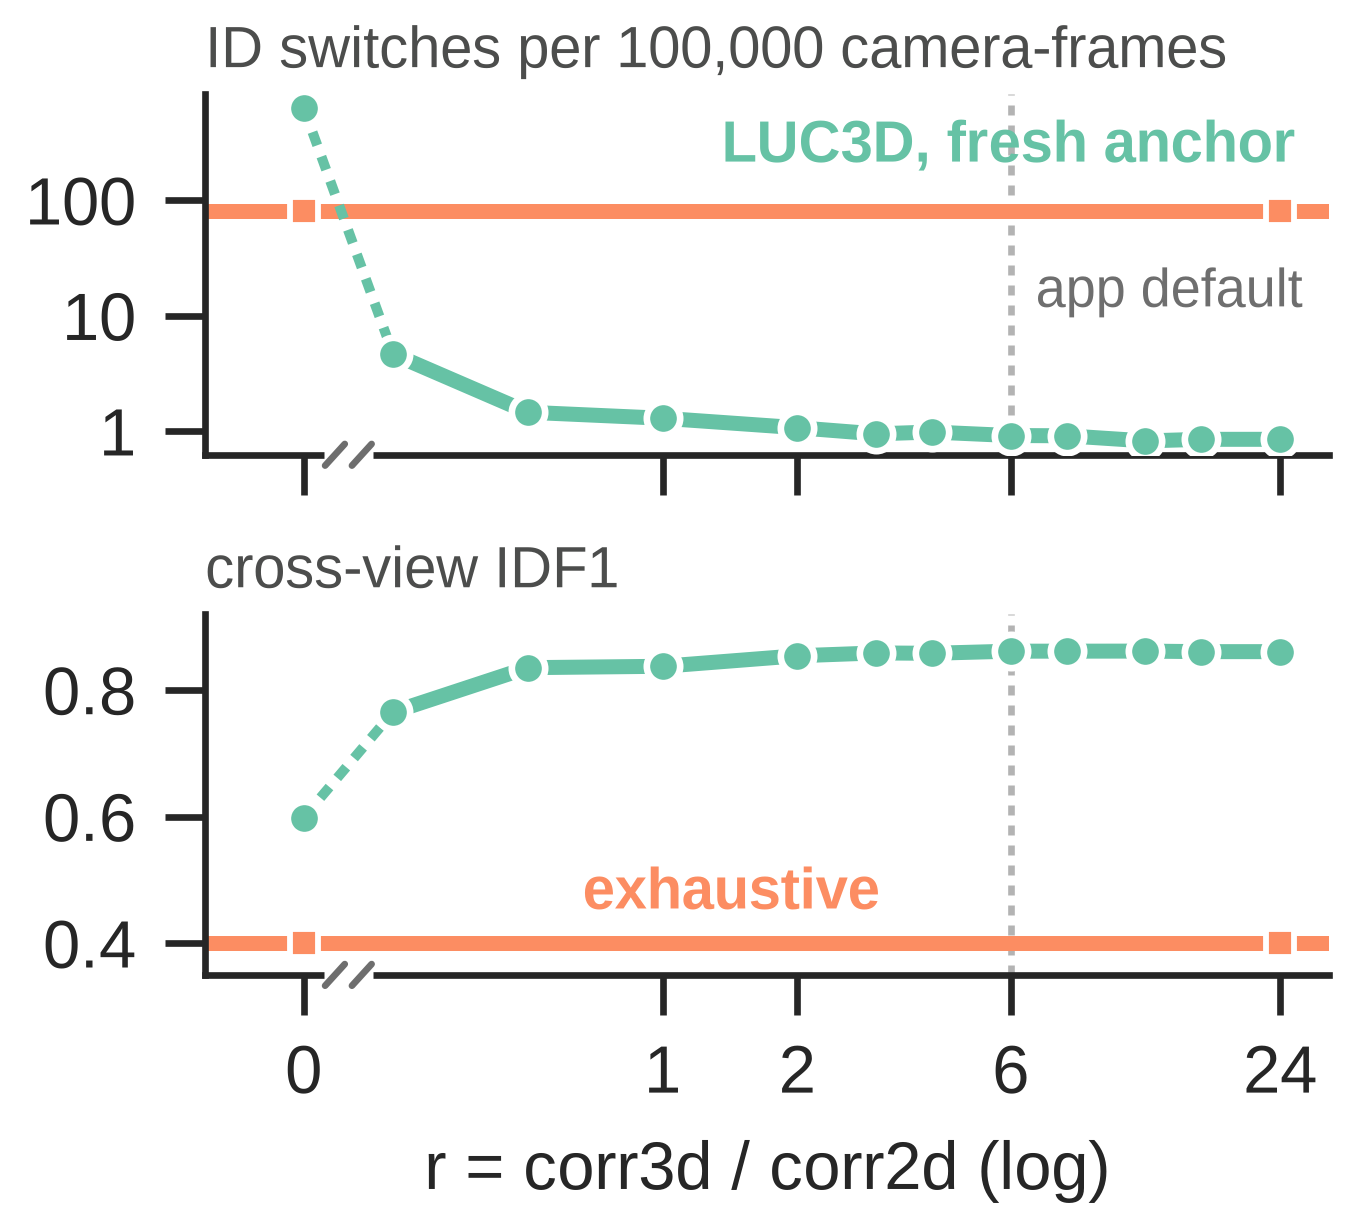
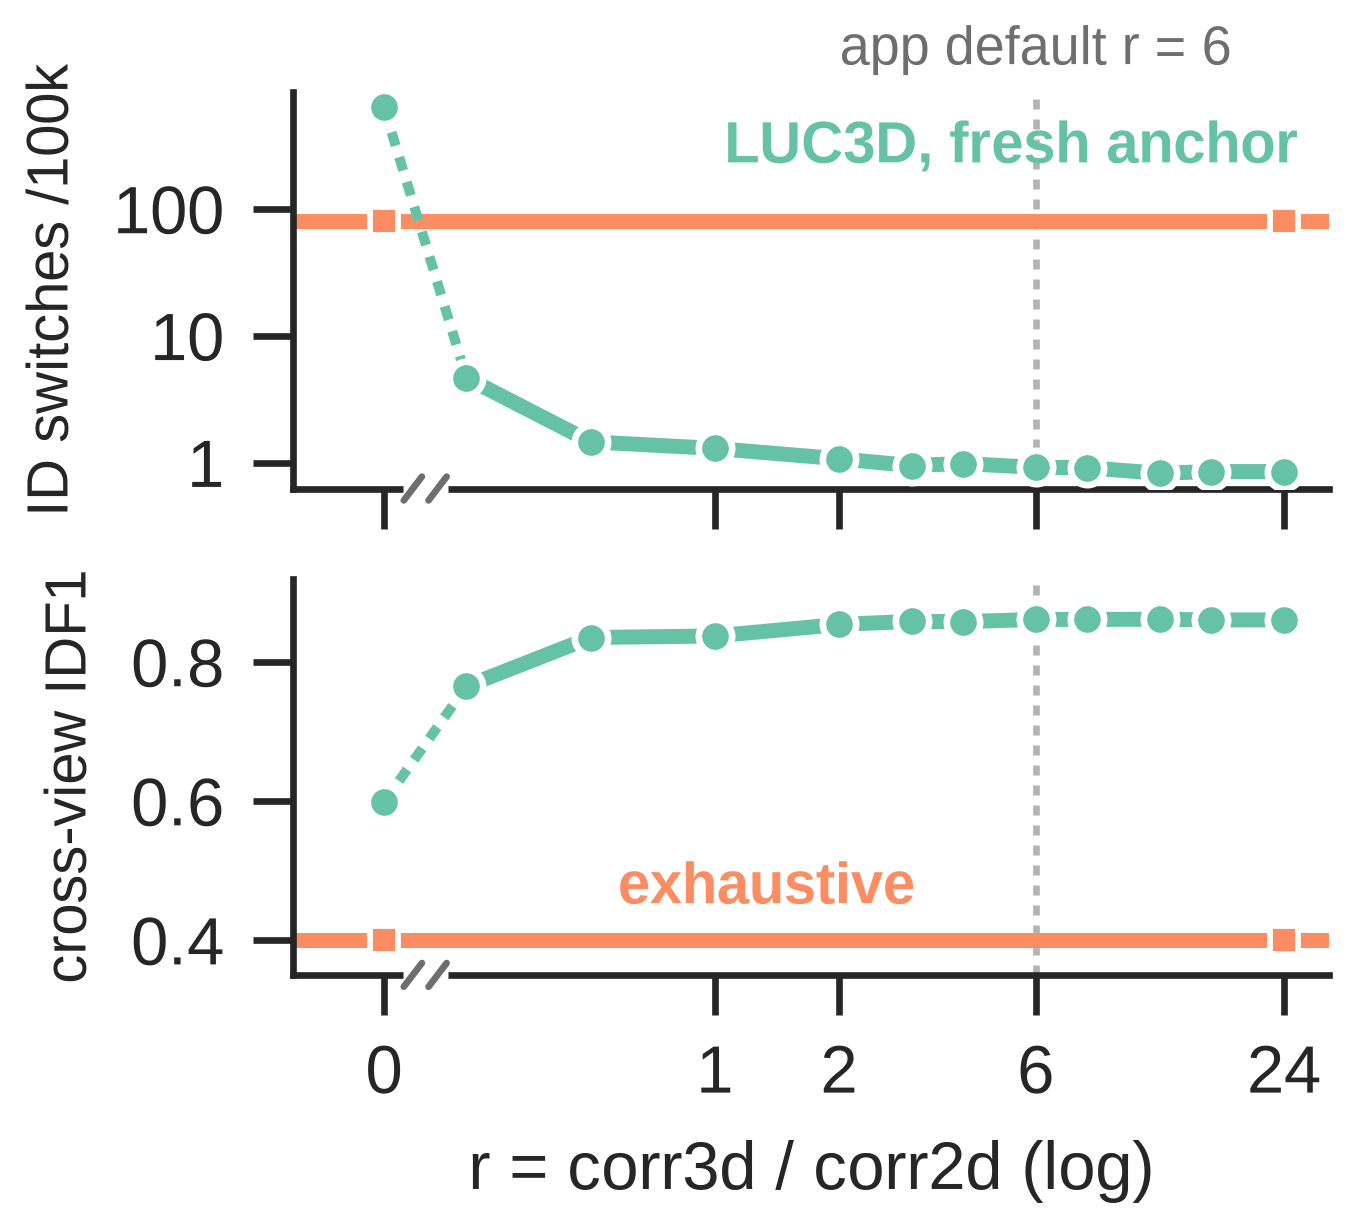
figs: 3d keeps rotated y labels, sized to fit their own axes
'ID switches /100k' (16.5 mm at 7 pt) and 'cross-view IDF1' (15 mm) each fit
inside a ~17 mm axis; the full denominator stays in the legend. The horizontal-
caption experiment is reverted on instruction.

diff --git a/figs/panels/fig3_05_sweep.py b/figs/panels/fig3_05_sweep.py
@@ -341,14 +341,14 @@ HOLLOW + DASHED = FRESH ANCHOR, FILLED + SOLID = SHIPPED. Briefly changed to
     ax_top.yaxis.set_major_formatter(FixedFormatter(["1", "10", "100"]))
     sweep_line(ax_top, "rate")
     exh_line(ax_top, exh_rate, -7)
-    # HORIZONTAL CAPTIONS, NOT ROTATED YLABELS (Eric, 2026-08-15: "the y labels are
-    # colliding"): rotated, either label sets ~26-30 mm of type against a ~17 mm
-    # axis, so each ran past its own subplot into the other's -- shortening could
-    # not fix what the geometry forbids. A one-line horizontal caption above each
-    # plot's top-left spends width, which these axes have.
-    ax_top.text(0.0, 1.04, "ID switches per 100,000 camera-frames",
-                transform=ax_top.transAxes, ha="left", va="bottom", color=INK,
-                fontsize=7)
+    # ROTATED Y LABELS, SIZED TO FIT (Eric, 2026-08-15: "you should label the y
+    # axis but just make the text fit" -- the horizontal-caption attempt is out).
+    # The constraint is real: a label may not overrun its own ~17 mm axis. At 7 pt,
+    # "ID switches /100k" is ~16.5 mm and "cross-view IDF1" ~15 mm set along the
+    # rule, so both fit INSIDE their own axis with a hair to spare; the full
+    # denominator ("per 100,000 camera-frames") stays in the footnote, where the
+    # rate basis is stated exactly.
+    ax_top.set_ylabel("ID switches /100k", fontsize=7)
     ax_top.tick_params(labelbottom=False)
     ax_top.set_xlabel("")
 
@@ -360,8 +360,7 @@ HOLLOW + DASHED = FRESH ANCHOR, FILLED + SOLID = SHIPPED. Briefly changed to
     ax_bot.set_ylim(0.35, 0.92)
     sweep_line(ax_bot, "idf1")
     exh_line(ax_bot, exh["idf1_cross_mean"], 5)
-    ax_bot.text(0.0, 1.04, "cross-view IDF1", transform=ax_bot.transAxes,
-                ha="left", va="bottom", color=INK, fontsize=7)
+    ax_bot.set_ylabel("cross-view IDF1", fontsize=7)
 
     footnote(ax_bot, "r = 0: no 3D term, left of the break\n"
              f"rate basis: {tcf:,} camera-frames (50 sessions x 5 cameras, "
@@ -370,13 +369,10 @@ HOLLOW + DASHED = FRESH ANCHOR, FILLED + SOLID = SHIPPED. Briefly changed to
 
     for axis in (ax_top, ax_bot):
         axis.axvline(SHIPPED_R, color=GREY, lw=0.8, ls=(0, (1.5, 1.5)), zorder=1)
-    # Inside the plot, right of its own rule, mid-height: the band above the axes
-    # now belongs to the caption (lint: 100% overlap when both sat there), and the
-    # region right of r = 6 between the two flat series is empty.
-    ax_top.annotate(f"app default", (SHIPPED_R, 0.45),
-                    xycoords=("data", "axes fraction"), xytext=(3, 0),
+    ax_top.annotate(f"app default r = {SHIPPED_R:g}", (SHIPPED_R, 1.0),
+                    xycoords=("data", "axes fraction"), xytext=(0, 2),
                     textcoords="offset points", color=MUTED, fontsize=6.5,
-                    ha="left", va="center")
+                    ha="center", va="bottom")
 
     # The key rides INSIDE the top plot's clear upper-right corner: grid() has no
     # reserved key band, and drawn "above" it landed on the axes (lint: on the 300
